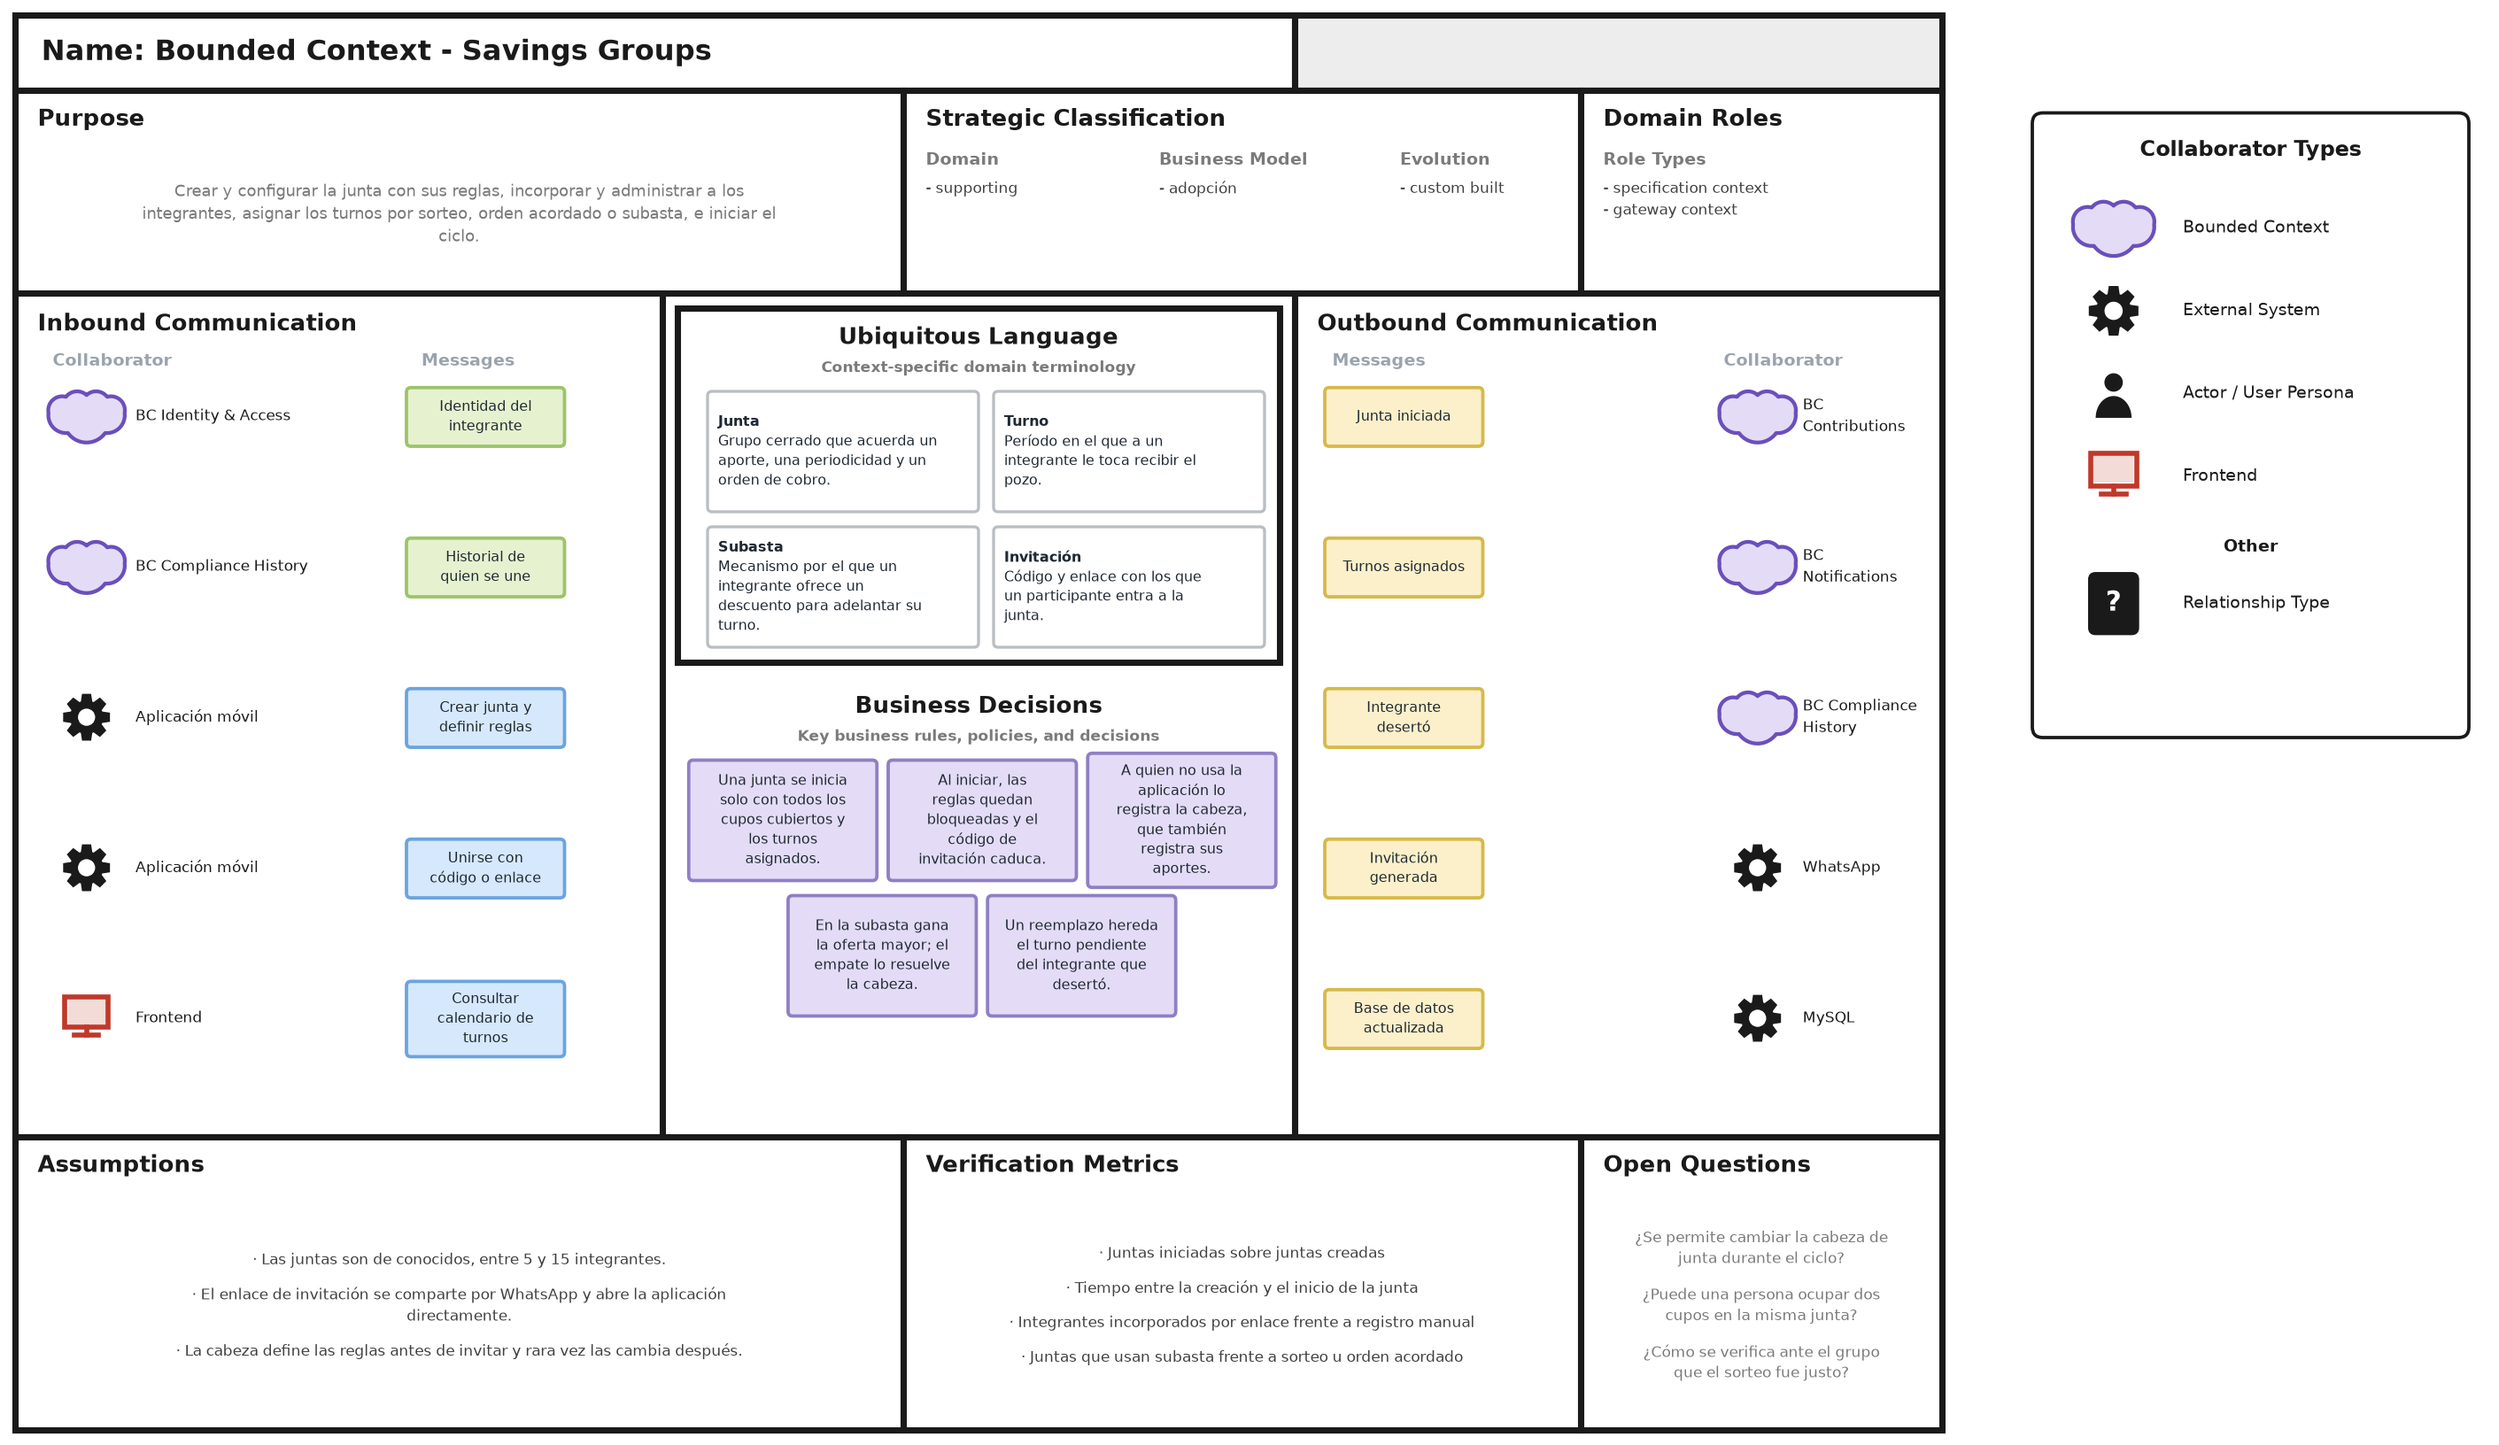
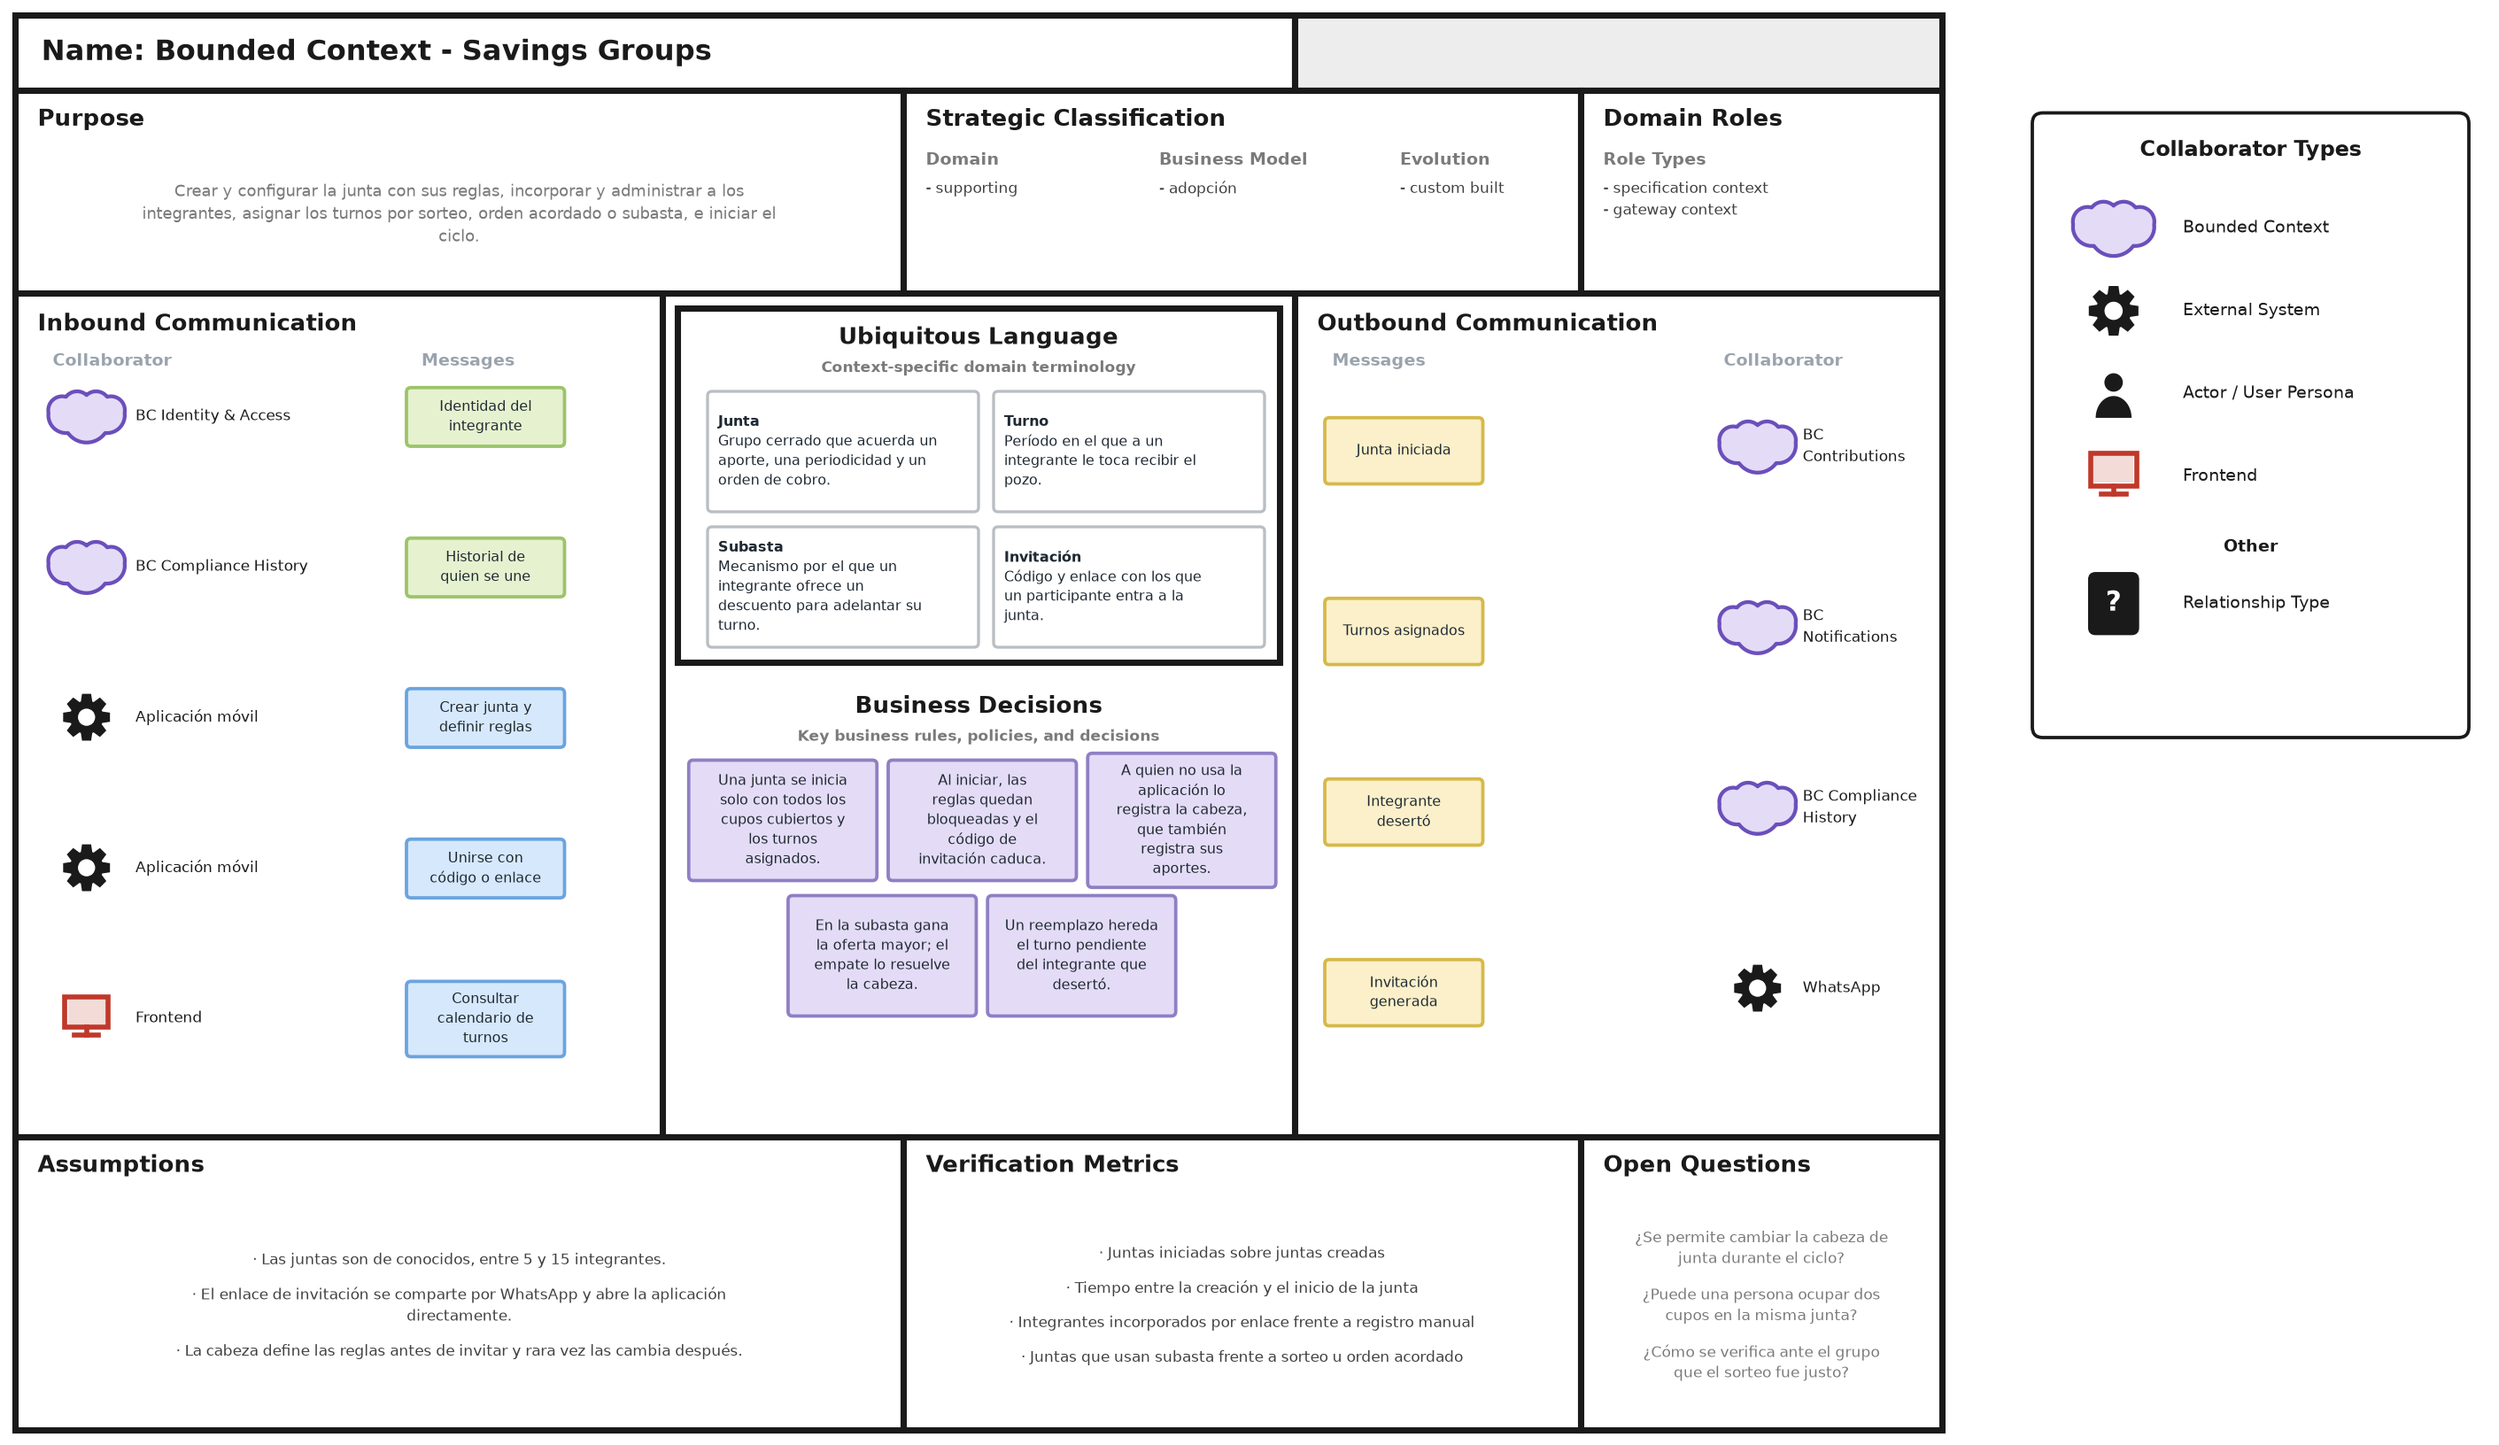
fix: drop the MySQL database from the bounded context canvases
The database is PostgreSQL on Supabase, and as an internal detail of each context it is not a collaborator of the canvas.

diff --git a/scripts/bounded-context-canvas.py b/scripts/bounded-context-canvas.py
@@ -388,7 +388,6 @@ CANVASES = [
         'saliente': [
             ('Aporte validado', 'bc', 'BC Compliance History'),
             ('Pozo completo y pozo entregado', 'bc', 'BC Notifications'),
-            ('Base de datos actualizada', 'sistema', 'MySQL'),
             ('Estado del pozo mostrado', 'frontend', 'Frontend'),
             ('Consultar reglas y turnos', 'bc', 'BC Savings Groups'),
         ],
@@ -446,7 +445,6 @@ CANVASES = [
             ('Turnos asignados', 'bc', 'BC Notifications'),
             ('Integrante desertó', 'bc', 'BC Compliance History'),
             ('Invitación generada', 'sistema', 'WhatsApp'),
-            ('Base de datos actualizada', 'sistema', 'MySQL'),
         ],
         'supuestos': [
             'Las juntas son de conocidos, entre 5 y 15 integrantes.',
@@ -498,7 +496,6 @@ CANVASES = [
             ('Historial actualizado', 'bc', 'BC Savings Groups'),
             ('Historial compartido', 'sistema', 'Hoja de compartir del sistema'),
             ('Resumen del historial mostrado', 'frontend', 'Frontend'),
-            ('Base de datos actualizada', 'sistema', 'MySQL'),
         ],
         'supuestos': [
             'Un historial visible para el grupo incentiva el cumplimiento.',
@@ -552,7 +549,6 @@ CANVASES = [
             ('Recordatorio enviado', 'sistema', 'Firebase Cloud Messaging'),
             ('Aviso enviado', 'frontend', 'Frontend'),
             ('Dispositivo registrado', 'bc', 'BC Identity & Access'),
-            ('Base de datos actualizada', 'sistema', 'MySQL'),
         ],
         'supuestos': [
             'El plan gratuito de Firebase Cloud Messaging cubre el volumen inicial.',
@@ -605,7 +601,6 @@ CANVASES = [
             ('Sesión iniciada', 'bc', 'BC Notifications'),
             ('Identidad del integrante', 'bc', 'BC Savings Groups'),
             ('Perfil mostrado', 'frontend', 'Frontend'),
-            ('Base de datos actualizada', 'sistema', 'MySQL'),
         ],
         'supuestos': [
             'Todos los integrantes tienen un número peruano que recibe SMS.',
